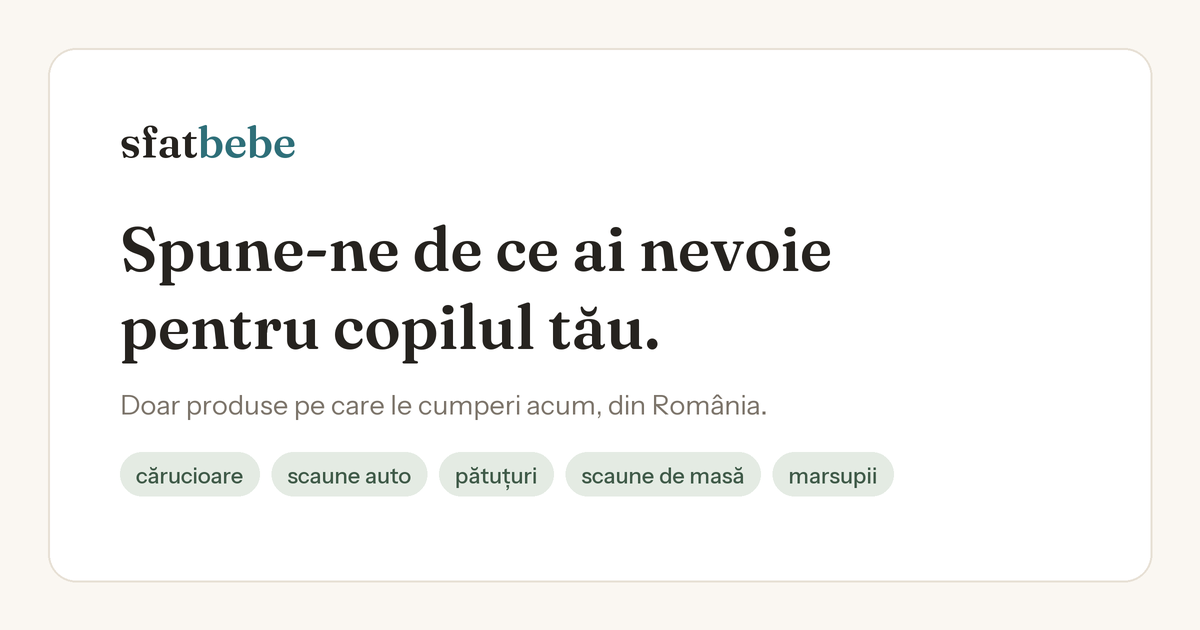
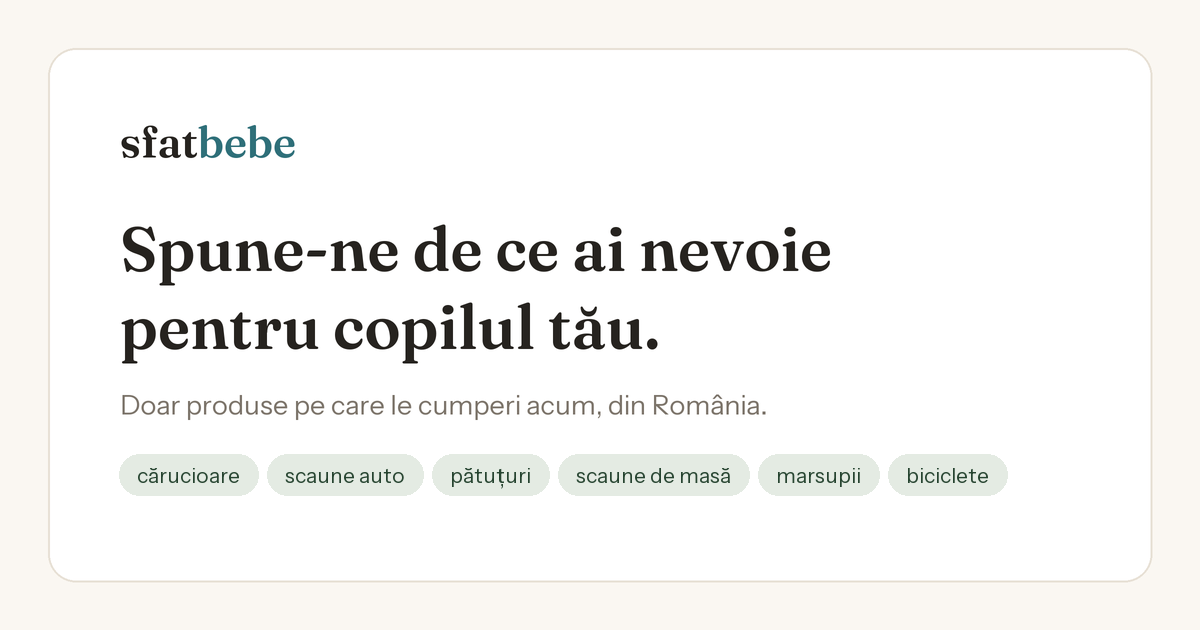
guide: what bike for a child, by age
The category had products and no page a search engine could land on. The guide
follows the same reasoning the matching does -- age decides the kind of vehicle,
then the wheel decides the size -- so what a parent reads here is what the site
then shows them.

Everything that points at a guide had to learn about this one: the sitemap, the
guides index, two related-guide blocks, and the category lists in the meta
descriptions, which still named four categories on the homepage and on /ghiduri.

og.png listed five categories in its chips. Only that band was redrawn, from the
image's own measurements (41px pills, 9px apart, 18px padding, text #264430), so
every other pixel is untouched.

Changed region(s): [[0.1233, 0.6937, 0.8633, 0.8143]]

diff --git a/ghiduri/bicicleta-copii-pe-varste/index.html b/ghiduri/bicicleta-copii-pe-varste/index.html
@@ -1,0 +1,116 @@
+<!DOCTYPE html><html lang="ro"><head><meta charset="UTF-8"><meta name="viewport" content="width=device-width, initial-scale=1.0">
+<title>Ce bicicletă pentru copil, pe vârste: tricicletă, fără pedale, cu pedale</title>
+<meta name="description" content="Tricicletă, bicicletă fără pedale sau cu pedale: ordinea pe vârste, ce mărime de roată i se potrivește copilului și ce contează — frână, greutate, mâner.">
+<link rel="canonical" href="https://sfatbebe.ro/ghiduri/bicicleta-copii-pe-varste">
+<meta property="og:type" content="article">
+<meta property="og:site_name" content="sfatbebe">
+<meta property="og:locale" content="ro_RO">
+<meta property="og:title" content="Ce bicicletă pentru copil, pe vârste: tricicletă, fără pedale, cu pedale">
+<meta property="og:description" content="Tricicletă, bicicletă fără pedale sau cu pedale: ordinea pe vârste, ce mărime de roată i se potrivește copilului și ce contează — frână, greutate, mâner.">
+<meta property="og:url" content="https://sfatbebe.ro/ghiduri/bicicleta-copii-pe-varste">
+<meta property="og:image" content="https://sfatbebe.ro/og.png">
+<meta property="og:image:width" content="1200">
+<meta property="og:image:height" content="630">
+<meta property="og:image:alt" content="sfatbebe — produse pentru copil, disponibile acum în România">
+<meta name="twitter:card" content="summary_large_image">
+<link rel="preconnect" href="https://fonts.googleapis.com"><link rel="preconnect" href="https://fonts.gstatic.com" crossorigin>
+<link href="https://fonts.googleapis.com/css2?family=Fraunces:opsz,wght@9..144,400;9..144,500;9..144,600&family=Instrument+Sans:wght@400;500;600&display=swap" rel="stylesheet">
+<style>
+  :root{--paper:#FAF7F2;--paper-2:#F3EEE5;--ink:#26231F;--muted:#7C746A;--teal:#2E6F79;--teal-deep:#245861;--sage:#8FA996;--sage-soft:#E4EBE3;--clay:#B45B3F;--line:#E7E0D5;--card:#FFFFFF;--radius:16px}
+  *{box-sizing:border-box}
+  body{margin:0;background:var(--paper);color:var(--ink);font-family:"Instrument Sans",system-ui,sans-serif;font-size:17px;line-height:1.65}
+  .wrap{max-width:720px;margin:0 auto;padding:0 20px}
+  header{padding:22px 0 8px}
+  .bar{display:flex;align-items:baseline;justify-content:space-between;gap:16px}
+  .logo{font-family:"Fraunces",serif;font-weight:600;font-size:24px;letter-spacing:-.01em;text-decoration:none;color:var(--ink)}
+  .logo b{color:var(--teal)}
+  nav a{color:var(--muted);text-decoration:none;font-size:15px;margin-left:20px}
+  nav a:hover{color:var(--ink)}
+  article{padding:26px 0 10px}
+  .crumb{font-size:13.5px;color:var(--muted);margin-bottom:18px}
+  .crumb a{color:var(--muted);text-decoration:none}
+  .crumb a:hover{color:var(--teal)}
+  h1{font-family:"Fraunces",serif;font-weight:500;font-optical-sizing:auto;font-size:clamp(28px,4.6vw,40px);line-height:1.12;letter-spacing:-.015em;margin:0 0 14px}
+  .lead{font-size:18.5px;color:#4a453d;margin:0 0 8px}
+  h2{font-family:"Fraunces",serif;font-weight:500;font-size:24px;letter-spacing:-.01em;margin:34px 0 10px}
+  p{margin:0 0 14px}ul{margin:0 0 16px;padding-left:20px}li{margin-bottom:8px}strong{font-weight:600}
+  table{width:100%;border-collapse:collapse;margin:0 0 16px;font-size:16px}
+  th,td{text-align:left;padding:9px 10px;border-bottom:1px solid var(--line)}
+  th{font-weight:600;color:var(--muted);font-size:14px;letter-spacing:.02em}
+  tbody tr:last-child td{border-bottom:none}
+  .cta{background:var(--card);border:1px solid var(--line);border-radius:var(--radius);padding:22px;margin:30px 0;text-align:center;box-shadow:0 10px 24px -18px rgba(38,35,31,.5)}
+  .cta p{font-size:16px;color:var(--muted);margin:0 0 14px}
+  .cta a{display:inline-block;background:var(--teal);color:#fff;text-decoration:none;font-weight:500;font-size:16px;padding:12px 24px;border-radius:11px}
+  .cta a:hover{background:var(--teal-deep)}
+  .faq h3{font-size:17px;margin:18px 0 4px;font-weight:600}
+  .related{border-top:1px solid var(--line);margin-top:36px;padding-top:20px}
+  .related h2{margin-top:0}
+  .related a{display:block;color:var(--teal);text-decoration:none;padding:6px 0}
+  .related a:hover{text-decoration:underline}
+  footer{border-top:1px solid var(--line);margin-top:36px;padding:24px 0 40px;color:var(--muted);font-size:13.5px}
+  @media (max-width:560px){body{font-size:16px}th,td{padding:8px 6px}}
+</style></head><body><div class="wrap">
+<header><div class="bar"><a class="logo" href="/">sfat<b>bebe</b></a><nav><a href="/ghiduri">Ghiduri</a><a href="/cum-functioneaza">Cum funcționează</a><a href="/">Caută</a></nav></div></header>
+<article>
+<div class="crumb"><a href="/">Acasă</a> › <a href="/ghiduri">Ghiduri</a> › Ce bicicletă pentru copil</div>
+<h1>Ce bicicletă pentru copil, pe vârste</h1>
+<p class="lead">Întrebarea nu e câți ani are, ci ce poate: să se împingă cu picioarele, să pedaleze, să țină echilibrul. Ordinea e aproape mereu aceeași — tricicletă, bicicletă fără pedale, bicicletă cu pedale — și fiecare treaptă ține un an sau doi.</p>
+<p style="font-size:14px;color:var(--muted);border-left:3px solid var(--line);padding-left:12px">Ghidul e orientativ. Casca se poartă de la prima tură, respectă limitele de vârstă și greutate ale modelului tău, iar primele ture nu se fac pe drum public.</p>
+
+<h2>Ordinea firească</h2>
+<ul>
+<li><strong>10 luni – 2 ani: tricicletă cu mâner parental.</strong> La început copilul e pasager, iar tu împingi; picioarele îi stau pe suport. Pe la 2 ani începe să pedaleze singur și mânerul se scoate. E singura variantă reală înainte de un an și jumătate.</li>
+<li><strong>1,5 – 4 ani: bicicletă fără pedale.</strong> Numită și draisină sau bicicletă de echilibru. Copilul se împinge cu tălpile și se lasă purtat — exact partea grea, echilibrul, pe care roțile ajutătoare nu o predau niciodată. Cea mai bună investiție din toată lista.</li>
+<li><strong>3 ani și peste: prima bicicletă cu pedale.</strong> Un copil care a avut bicicletă fără pedale sare de obicei direct la pedale, fără roți ajutătoare, în câteva după-amiezi.</li>
+<li><strong>3 ani și peste: trotineta.</strong> Cu trei roți la început, fiindcă stă singură sub copil; pe două roți abia după 5 ani, când echilibrul e deja învățat.</li>
+</ul>
+
+<h2>Mărimea se dă în țoli, după roată</h2>
+<p>Bicicletele de copii nu au mărimi S/M/L: se măsoară în diametrul roții, în țoli. Vârsta din tabel e doar o orientare — copiii de aceeași vârstă diferă mult în înălțime, iar roata se alege după picior, nu după ziua de naștere.</p>
+<table>
+<thead><tr><th>Roată</th><th>Vârstă orientativă</th><th>Înălțimea copilului</th></tr></thead>
+<tbody>
+<tr><td><strong>10–12"</strong></td><td>2–4 ani</td><td>85–100 cm</td></tr>
+<tr><td><strong>14"</strong></td><td>4–5 ani</td><td>100–110 cm</td></tr>
+<tr><td><strong>16"</strong></td><td>5–7 ani</td><td>110–120 cm</td></tr>
+<tr><td><strong>20"</strong></td><td>7–9 ani</td><td>120–135 cm</td></tr>
+<tr><td><strong>24"</strong></td><td>peste 9 ani</td><td>peste 135 cm</td></tr>
+</tbody>
+</table>
+<p><strong>Testul care contează:</strong> cu șaua coborâtă la minim, copilul stă pe șa și atinge pământul. La bicicleta fără pedale, cu toată talpa — așa se împinge și așa se oprește. La prima bicicletă cu pedale, tot cu tălpile, ca să poată pune piciorul jos când se dezechilibrează; abia mai târziu, când e sigur pe el, se ridică șaua la poziția eficientă de pedalat.</p>
+<p>Nu cumpăra „pe creștere”. O bicicletă prea mare nu e o bicicletă pentru la anul, e o bicicletă pe care copilul nu o folosește anul ăsta și de care îi e frică.</p>
+
+<h2>Ce contează de fapt</h2>
+<ul>
+<li><strong>Greutatea.</strong> Un copil de 12 kg nu ridică o bicicletă de 6 kg, nici nu o întoarce când cade cu ea. Caută cât mai ușor: o draisină bună stă între 2,5 și 4 kg. Cadrul de aluminiu sau magneziu costă mai mult, dar asta se simte zilnic.</li>
+<li><strong>Frâna.</strong> Mâna unui copil mic nu strânge tare și nu ajunge departe, deci contează maneta reglabilă, aproape de ghidon. Contrapedala (frânezi pedalând înapoi) e mai simplă la început; frâna de mână e cea pe care o va folosi toată viața.</li>
+<li><strong>Mânerul parental, la tricicletă.</strong> Fără el, o tricicletă la 1–2 ani e doar un obiect frumos în hol: copilul încă nu pedalează, tu ești motorul. Bun de verificat că se detașează, ca să rămână utilă și după.</li>
+<li><strong>Roțile.</strong> Cele din spumă EVA nu fac niciodată pană și nu cer pompă, dar aderă mai prost și amortizează puțin. Cele gonflabile sunt mai confortabile pe asfalt spart și pe pământ — în schimb se dezumflă și le verifici.</li>
+<li><strong>Șa și ghidon reglabile.</strong> Singurul lucru care transformă un an de folosință în doi.</li>
+<li><strong>Roțile ajutătoare.</strong> Țin copilul drept, deci îl învață să nu se încline — exact opusul mersului pe bicicletă. Dacă ai deja o bicicletă cu ele, nu e o dramă: scoate-le mai devreme decât ți-e comod, sau scoate pedalele câteva săptămâni și folosește-o pe post de bicicletă fără pedale.</li>
+<li><strong>Casca.</strong> Nu e opțională, nici în curte. Caută marcajul <strong>EN 1078</strong>, potrivește-o pe cap înainte de culoare și schimb-o după o lovitură serioasă.</li>
+<li><strong>Standardele.</strong> Bicicletele pentru copii mici se fabrică după <strong>EN ISO 8098</strong>, trotinetele după <strong>EN 14619</strong>, iar tricicletele și vehiculele de împins intră la jucării, sub <strong>EN 71</strong>. Când anunțul le menționează, e un semn bun.</li>
+</ul>
+
+<h2>Tricicletă sau bicicletă fără pedale?</h2>
+<p>Depinde doar de vârstă. Sub un an și jumătate nu e o alegere: tricicleta cu mâner e singura care funcționează, fiindcă mergi tu. Peste doi ani, bicicleta fără pedale câștigă aproape întotdeauna — e mai ușoară, se folosește singur și îl duce direct spre pedale.</p>
+<p>Între cele două stau tricicletele „4 în 1" sau „5 în 1", care trec prin toate etapele: cu mâner și suport de picioare la început, apoi fără mâner, apoi fără bară, uneori chiar cu pedalele scoase. Costă mai mult decât o tricicletă simplă, dar acoperă vreo doi ani în loc de unul.</p>
+
+<div class="cta"><p>Vrei să vezi ce se potrivește copilului tău, din magazine care livrează acum în România?</p><a href="/?q=bicicleta%20pentru%20copil%20de%204%20ani">Vezi biciclete și triciclete</a></div>
+
+<p style="font-size:15px;color:var(--muted)">Cauți ceva anume? <a href="/?q=tricicleta%20cu%20maner%20pentru%202%20ani" style="color:var(--teal)">tricicletă cu mâner</a> · <a href="/?q=bicicleta%20fara%20pedale" style="color:var(--teal)">bicicletă fără pedale</a> · <a href="/?q=bicicleta%2016%20inch" style="color:var(--teal)">bicicletă 16"</a> · <a href="/?q=trotineta%20pliabila%20pentru%204%20ani" style="color:var(--teal)">trotinetă pliabilă</a></p>
+
+<div class="faq"><h2>Întrebări frecvente</h2>
+<h3>De la ce vârstă poate un copil să meargă pe bicicletă fără pedale?</h3><p>De obicei de pe la un an și jumătate, când merge sigur pe picioare. Testul practic nu e vârsta, ci înălțimea: așezat pe șaua coborâtă la minim, copilul trebuie să atingă pământul cu toată talpa, ca să se poată împinge și, mai ales, opri.</p>
+<h3>Ce mărime de bicicletă pentru un copil de 4 ani?</h3><p>Orientativ 12 sau 14 țoli, în funcție de înălțime: 12" până pe la 100 cm, 14" între 100 și 110 cm. Alege după picior, nu după vârstă, și nu lua o măsură mai mare „pe creștere” — o bicicletă prea mare nu se folosește și sperie copilul.</p>
+<h3>Roți ajutătoare sau bicicletă fără pedale?</h3><p>Bicicleta fără pedale, dacă poți alege. Roțile ajutătoare țin copilul drept și îl obișnuiesc să nu se încline, adică exact invers decât se merge pe bicicletă. Copiii care încep cu o draisină trec la pedale, de regulă, fără nicio etapă intermediară.</p>
+<h3>Până când e utilă o tricicletă cu mâner parental?</h3><p>Cam până la 3 ani sau până la greutatea maximă declarată de producător, de obicei între 20 și 25 kg. Pe la 2 ani copilul începe să pedaleze singur și mânerul se scoate; modelele multifuncționale merg mai departe, ca tricicletă simplă.</p>
+</div>
+<div class="related"><h2>Ghiduri legate</h2><a href="/">Caută o bicicletă sau o tricicletă după vârsta copilului</a>
+<a href="/ghiduri/cum-alegi-scaun-de-masa">Cum alegi scaunul de masă</a>
+<a href="/ghiduri/cum-alegi-scaun-auto">Cum alegi scaunul auto potrivit</a>
+<a href="/cum-functioneaza">Cum funcționează sfatbebe</a>
+</div>
+</article>
+<footer><p>sfatbebe.ro conține linkuri de afiliere: putem primi un comision când cumperi prin ele, fără cost suplimentar pentru tine.</p><p><a href="/ghiduri">Ghiduri</a> &nbsp; <a href="/cum-functioneaza">Cum funcționează</a> &nbsp; <a href="/termeni">Termeni</a> &nbsp; <a href="/confidentialitate">Confidențialitate</a></p><p>© 2026 sfatbebe.ro</p></footer>
+</div><script type="application/ld+json">{"@context": "https://schema.org", "@type": "FAQPage", "mainEntity": [{"@type": "Question", "name": "De la ce vârstă poate un copil să meargă pe bicicletă fără pedale?", "acceptedAnswer": {"@type": "Answer", "text": "De obicei de pe la un an și jumătate, când merge sigur pe picioare. Testul practic nu e vârsta, ci înălțimea: așezat pe șaua coborâtă la minim, copilul trebuie să atingă pământul cu toată talpa, ca să se poată împinge și, mai ales, opri."}}, {"@type": "Question", "name": "Ce mărime de bicicletă pentru un copil de 4 ani?", "acceptedAnswer": {"@type": "Answer", "text": "Orientativ 12 sau 14 țoli, în funcție de înălțime: 12\" până pe la 100 cm, 14\" între 100 și 110 cm. Alege după picior, nu după vârstă, și nu lua o măsură mai mare „pe creștere” — o bicicletă prea mare nu se folosește și sperie copilul."}}, {"@type": "Question", "name": "Roți ajutătoare sau bicicletă fără pedale?", "acceptedAnswer": {"@type": "Answer", "text": "Bicicleta fără pedale, dacă poți alege. Roțile ajutătoare țin copilul drept și îl obișnuiesc să nu se încline, adică exact invers decât se merge pe bicicletă. Copiii care încep cu o draisină trec la pedale, de regulă, fără nicio etapă intermediară."}}, {"@type": "Question", "name": "Până când e utilă o tricicletă cu mâner parental?", "acceptedAnswer": {"@type": "Answer", "text": "Cam până la 3 ani sau până la greutatea maximă declarată de producător, de obicei între 20 și 25 kg. Pe la 2 ani copilul începe să pedaleze singur și mânerul se scoate; modelele multifuncționale merg mai departe, ca tricicletă simplă."}}]}</script></body></html>

diff --git a/ghiduri/index.html b/ghiduri/index.html
@@ -1,12 +1,12 @@
 <!DOCTYPE html><html lang="ro"><head><meta charset="UTF-8"><meta name="viewport" content="width=device-width, initial-scale=1.0">
-<title>Ghiduri: cărucioare, scaune auto, pătuțuri, scaune de masă — sfatbebe</title>
-<meta name="description" content="Ghiduri practice pentru alegerea produselor pentru copil: cărucioare, scaune auto, pătuțuri și scaune de masă. Pe înțelesul părinților.">
+<title>Ghiduri: cărucioare, scaune auto, pătuțuri, scaune de masă, biciclete — sfatbebe</title>
+<meta name="description" content="Ghiduri practice pentru alegerea produselor pentru copil: cărucioare, scaune auto, pătuțuri, scaune de masă și biciclete. Pe înțelesul părinților.">
 <link rel="canonical" href="https://sfatbebe.ro/ghiduri">
 <meta property="og:type" content="website">
 <meta property="og:site_name" content="sfatbebe">
 <meta property="og:locale" content="ro_RO">
-<meta property="og:title" content="Ghiduri pentru părinți: cărucioare, scaune auto, pătuțuri, scaune de masă">
-<meta property="og:description" content="Ghiduri practice pentru alegerea produselor pentru copil: cărucioare, scaune auto, pătuțuri și scaune de masă. Pe înțelesul părinților.">
+<meta property="og:title" content="Ghiduri pentru părinți: cărucioare, scaune auto, pătuțuri, scaune de masă, biciclete">
+<meta property="og:description" content="Ghiduri practice pentru alegerea produselor pentru copil: cărucioare, scaune auto, pătuțuri, scaune de masă și biciclete. Pe înțelesul părinților.">
 <meta property="og:url" content="https://sfatbebe.ro/ghiduri">
 <meta property="og:image" content="https://sfatbebe.ro/og.png">
 <meta property="og:image:width" content="1200">
@@ -53,7 +53,8 @@
 </style></head><body><div class="wrap">
 <header><div class="bar"><a class="logo" href="/">sfat<b>bebe</b></a><nav><a href="/ghiduri">Ghiduri</a><a href="/cum-functioneaza">Cum funcționează</a><a href="/">Caută</a></nav></div></header>
 <article><h1>Ghiduri pentru părinți</h1>
-<p class="lead">Sfaturi practice, pe scurt, pentru cele mai importante alegeri: cărucioare, scaune auto, scaune de masă și accesorii. Când ești gata, caută direct în comparator după nevoia ta.</p>
+<p class="lead">Sfaturi practice, pe scurt, pentru cele mai importante alegeri: cărucioare, scaune auto, scaune de masă, biciclete și accesorii. Când ești gata, caută direct în comparator după nevoia ta.</p>
+<a class="g" href="/ghiduri/bicicleta-copii-pe-varste"><h3>Ce bicicletă pentru copil, pe vârste</h3><p>Tricicletă, fără pedale, cu pedale — și ce mărime de roată i se potrivește.</p></a>
 <a class="g" href="/ghiduri/cum-alegi-scaun-auto"><h3>Cum alegi scaunul auto potrivit</h3><p>Pe grupe de vârstă: scoică, scaun i-Size, înălțător. Isofix și i-Size explicate.</p></a>
 <a class="g" href="/ghiduri/cum-alegi-scaun-de-masa"><h3>Cum alegi scaunul de masă</h3><p>Când e pregătit bebelușul, cele trei tipuri și ce contează de fapt.</p></a>
 <a class="g" href="/ghiduri/accesorii-esentiale-carucior"><h3>Accesorii esențiale pentru cărucior</h3><p>Ce merită, ce e opțional și ce poți sări.</p></a>

diff --git a/index.html b/index.html
@@ -7,12 +7,12 @@
 <!-- every guide CTA links to /?q=..., and each of those is a distinct URL serving
      this same page; the canonical consolidates them all into the homepage -->
 <link rel="canonical" href="https://sfatbebe.ro/">
-<meta name="description" content="Descrie ce îți trebuie pentru copil, în română, ca unui prieten. Primești doar produse în stoc, livrabile în România azi: cărucioare, scaune auto, pătuțuri, scaune de masă.">
+<meta name="description" content="Descrie ce îți trebuie pentru copil, ca unui prieten. Doar produse în stoc, livrabile azi în România: cărucioare, scaune auto, pătuțuri, scaune de masă, biciclete.">
 <meta property="og:type" content="website">
 <meta property="og:site_name" content="sfatbebe">
 <meta property="og:locale" content="ro_RO">
 <meta property="og:title" content="sfatbebe — găsește ce ai nevoie pentru copil">
-<meta property="og:description" content="Descrie ce îți trebuie pentru copil, în română, ca unui prieten. Primești doar produse în stoc, livrabile în România azi: cărucioare, scaune auto, pătuțuri, scaune de masă.">
+<meta property="og:description" content="Descrie ce îți trebuie pentru copil, ca unui prieten. Doar produse în stoc, livrabile azi în România: cărucioare, scaune auto, pătuțuri, scaune de masă, biciclete.">
 <meta property="og:url" content="https://sfatbebe.ro/">
 <meta property="og:image" content="https://sfatbebe.ro/og.png">
 <meta property="og:image:width" content="1200">

diff --git a/ghiduri/cum-alegi-scaun-auto/index.html b/ghiduri/cum-alegi-scaun-auto/index.html
@@ -60,7 +60,8 @@
 <h3>Isofix e obligatoriu?</h3><p>Nu e obligatoriu, dar reduce riscul de montaj greșit și e mai comod. Dacă mașina ta are puncte isofix, merită un scaun isofix.</p>
 <h3>Când trece copilul la înălțător?</h3><p>Când depășește limitele scaunului convertibil (în jur de 4 ani sau 18 kg), spre un înălțător 15-36 kg. Verifică mereu limitele exacte ale scaunului.</p>
 </div>
-<div class="related"><h2>Ghiduri legate</h2><a href="/">Caută un scaun auto după vârsta copilului</a>
+<div class="related"><h2>Ghiduri legate</h2><a href="/ghiduri/bicicleta-copii-pe-varste">Ce bicicletă pentru copil, pe vârste</a>
+<a href="/">Caută un scaun auto după vârsta copilului</a>
 <a href="/ghiduri/accesorii-esentiale-carucior">Accesorii esențiale pentru cărucior</a>
 <a href="/cum-functioneaza">Cum funcționează sfatbebe</a>
 </div>

diff --git a/ghiduri/cum-alegi-scaun-de-masa/index.html b/ghiduri/cum-alegi-scaun-de-masa/index.html
@@ -84,6 +84,7 @@
 </div>
 <div class="related"><h2>Ghiduri legate</h2><a href="/">Caută un scaun de masă după vârsta copilului</a>
 <a href="/ghiduri/cum-alegi-scaun-auto">Cum alegi scaunul auto potrivit</a>
+<a href="/ghiduri/bicicleta-copii-pe-varste">Ce bicicletă pentru copil, pe vârste</a>
 <a href="/ghiduri/accesorii-esentiale-carucior">Accesorii esențiale pentru cărucior</a>
 <a href="/cum-functioneaza">Cum funcționează sfatbebe</a>
 </div>
